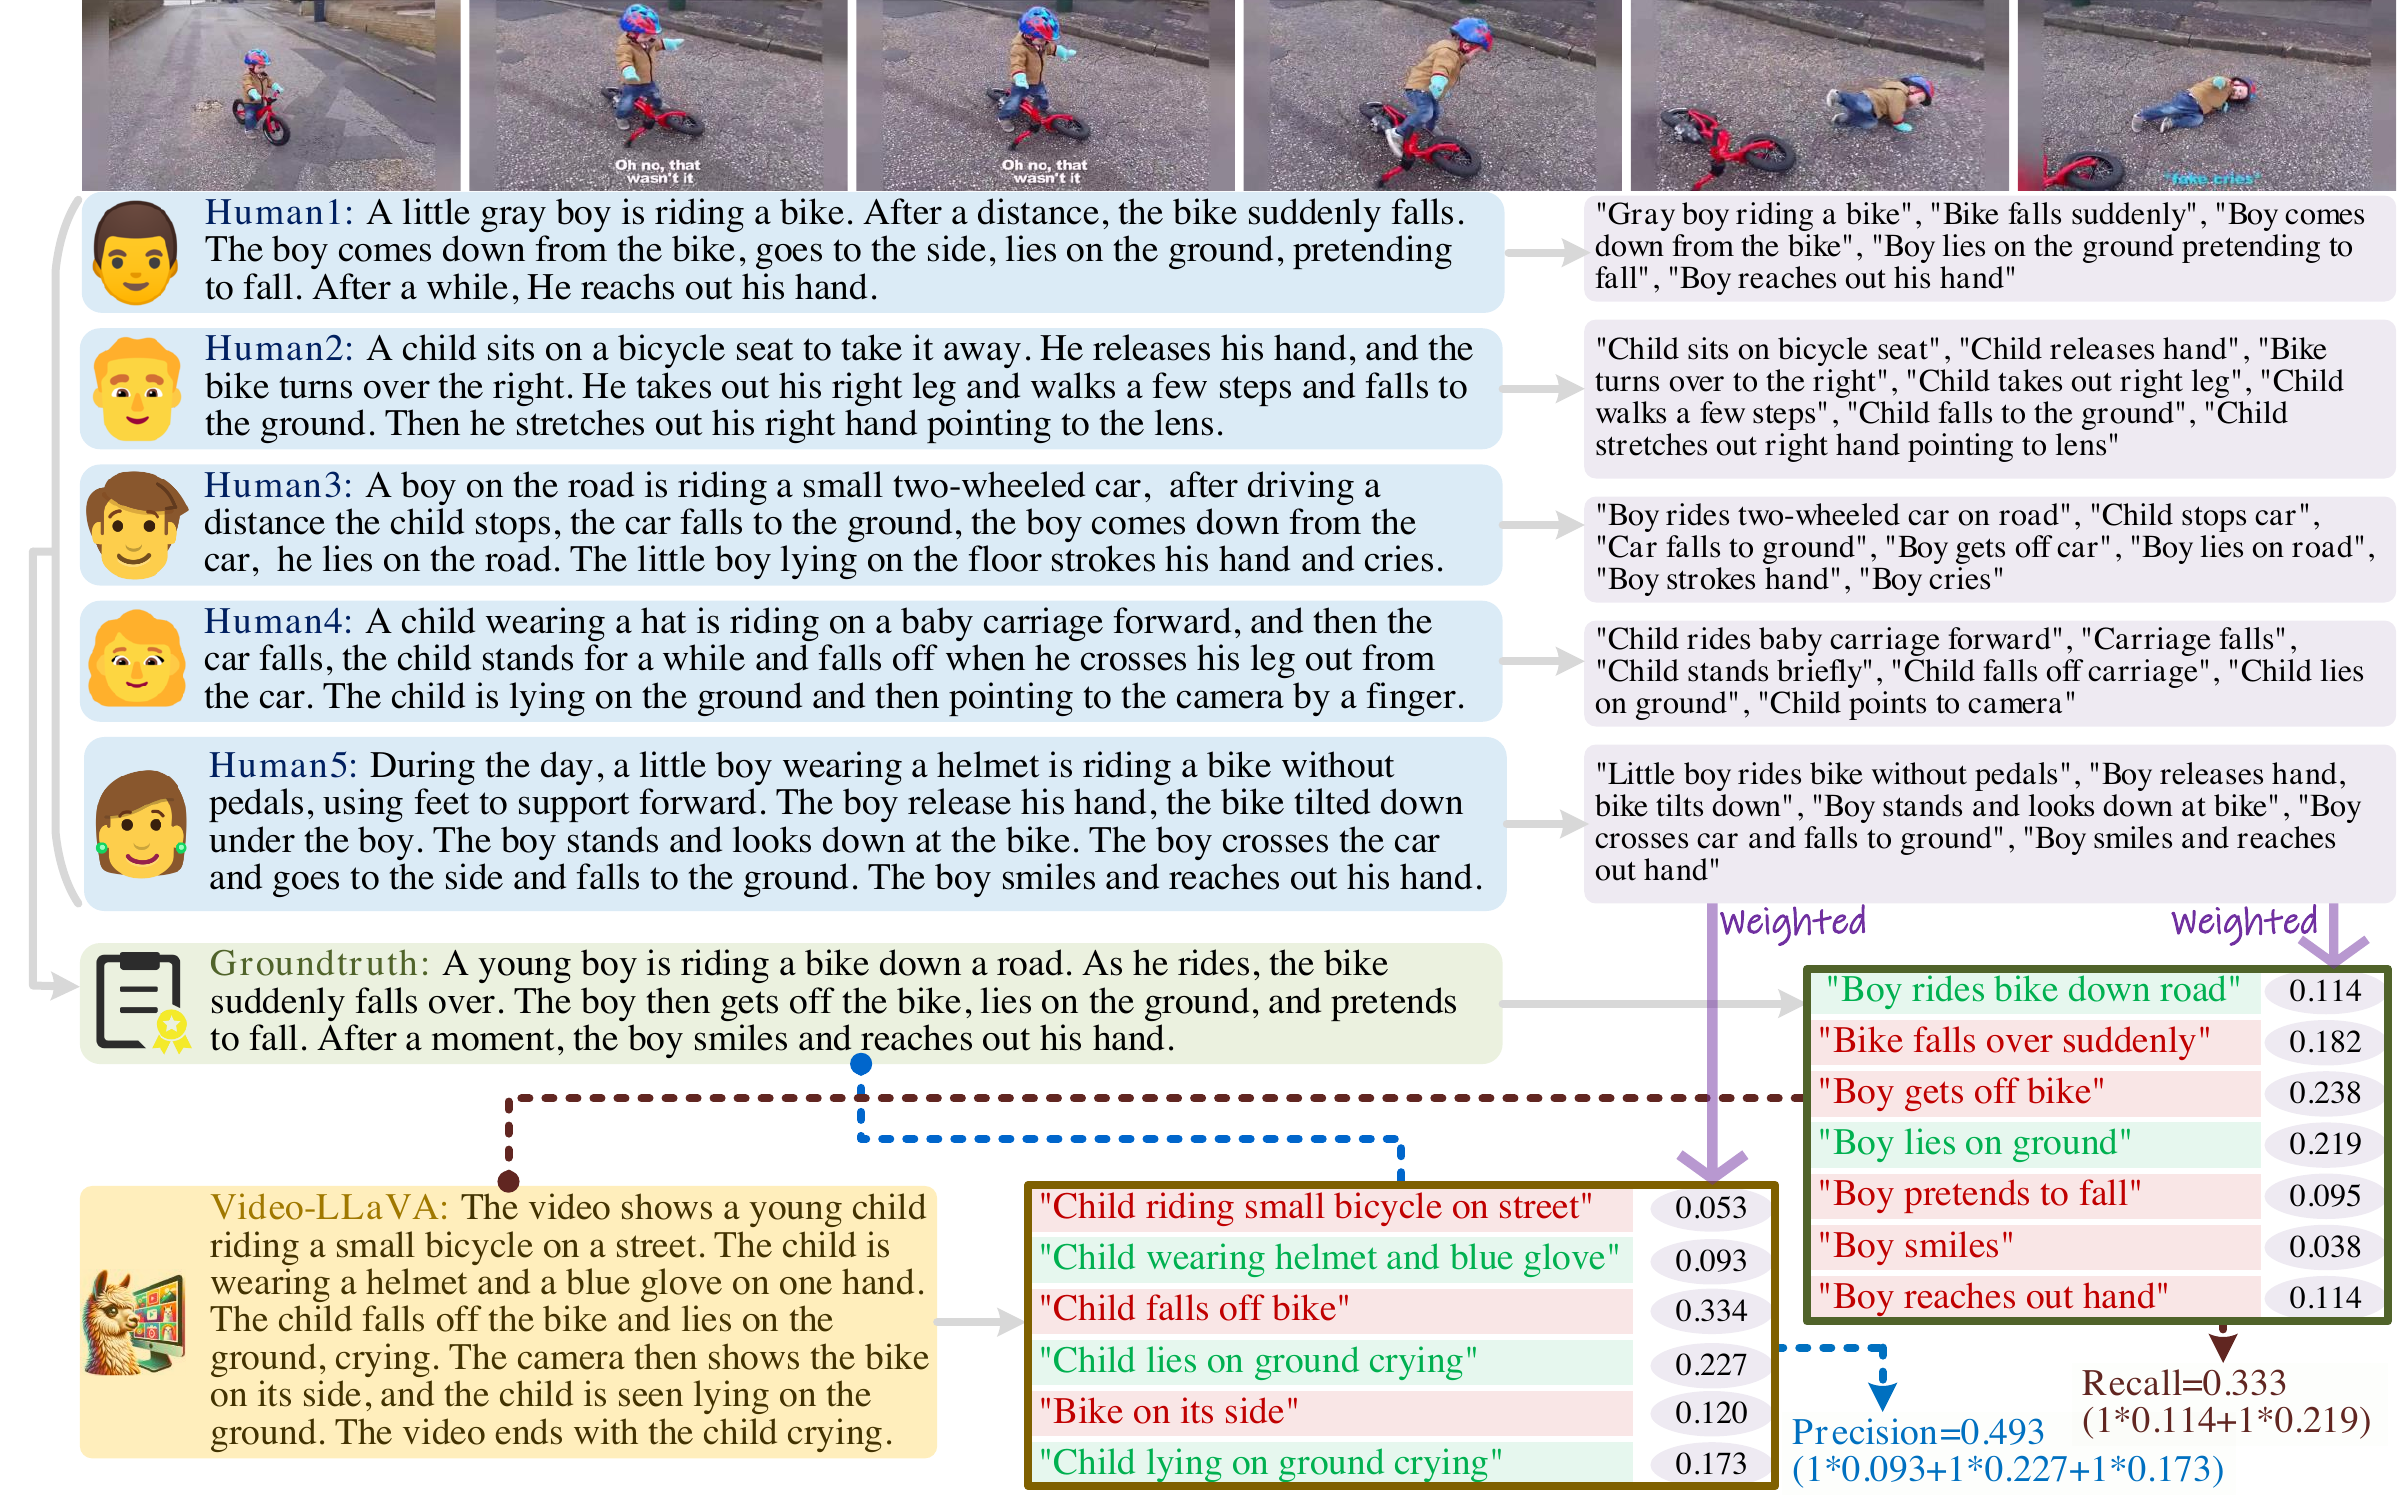
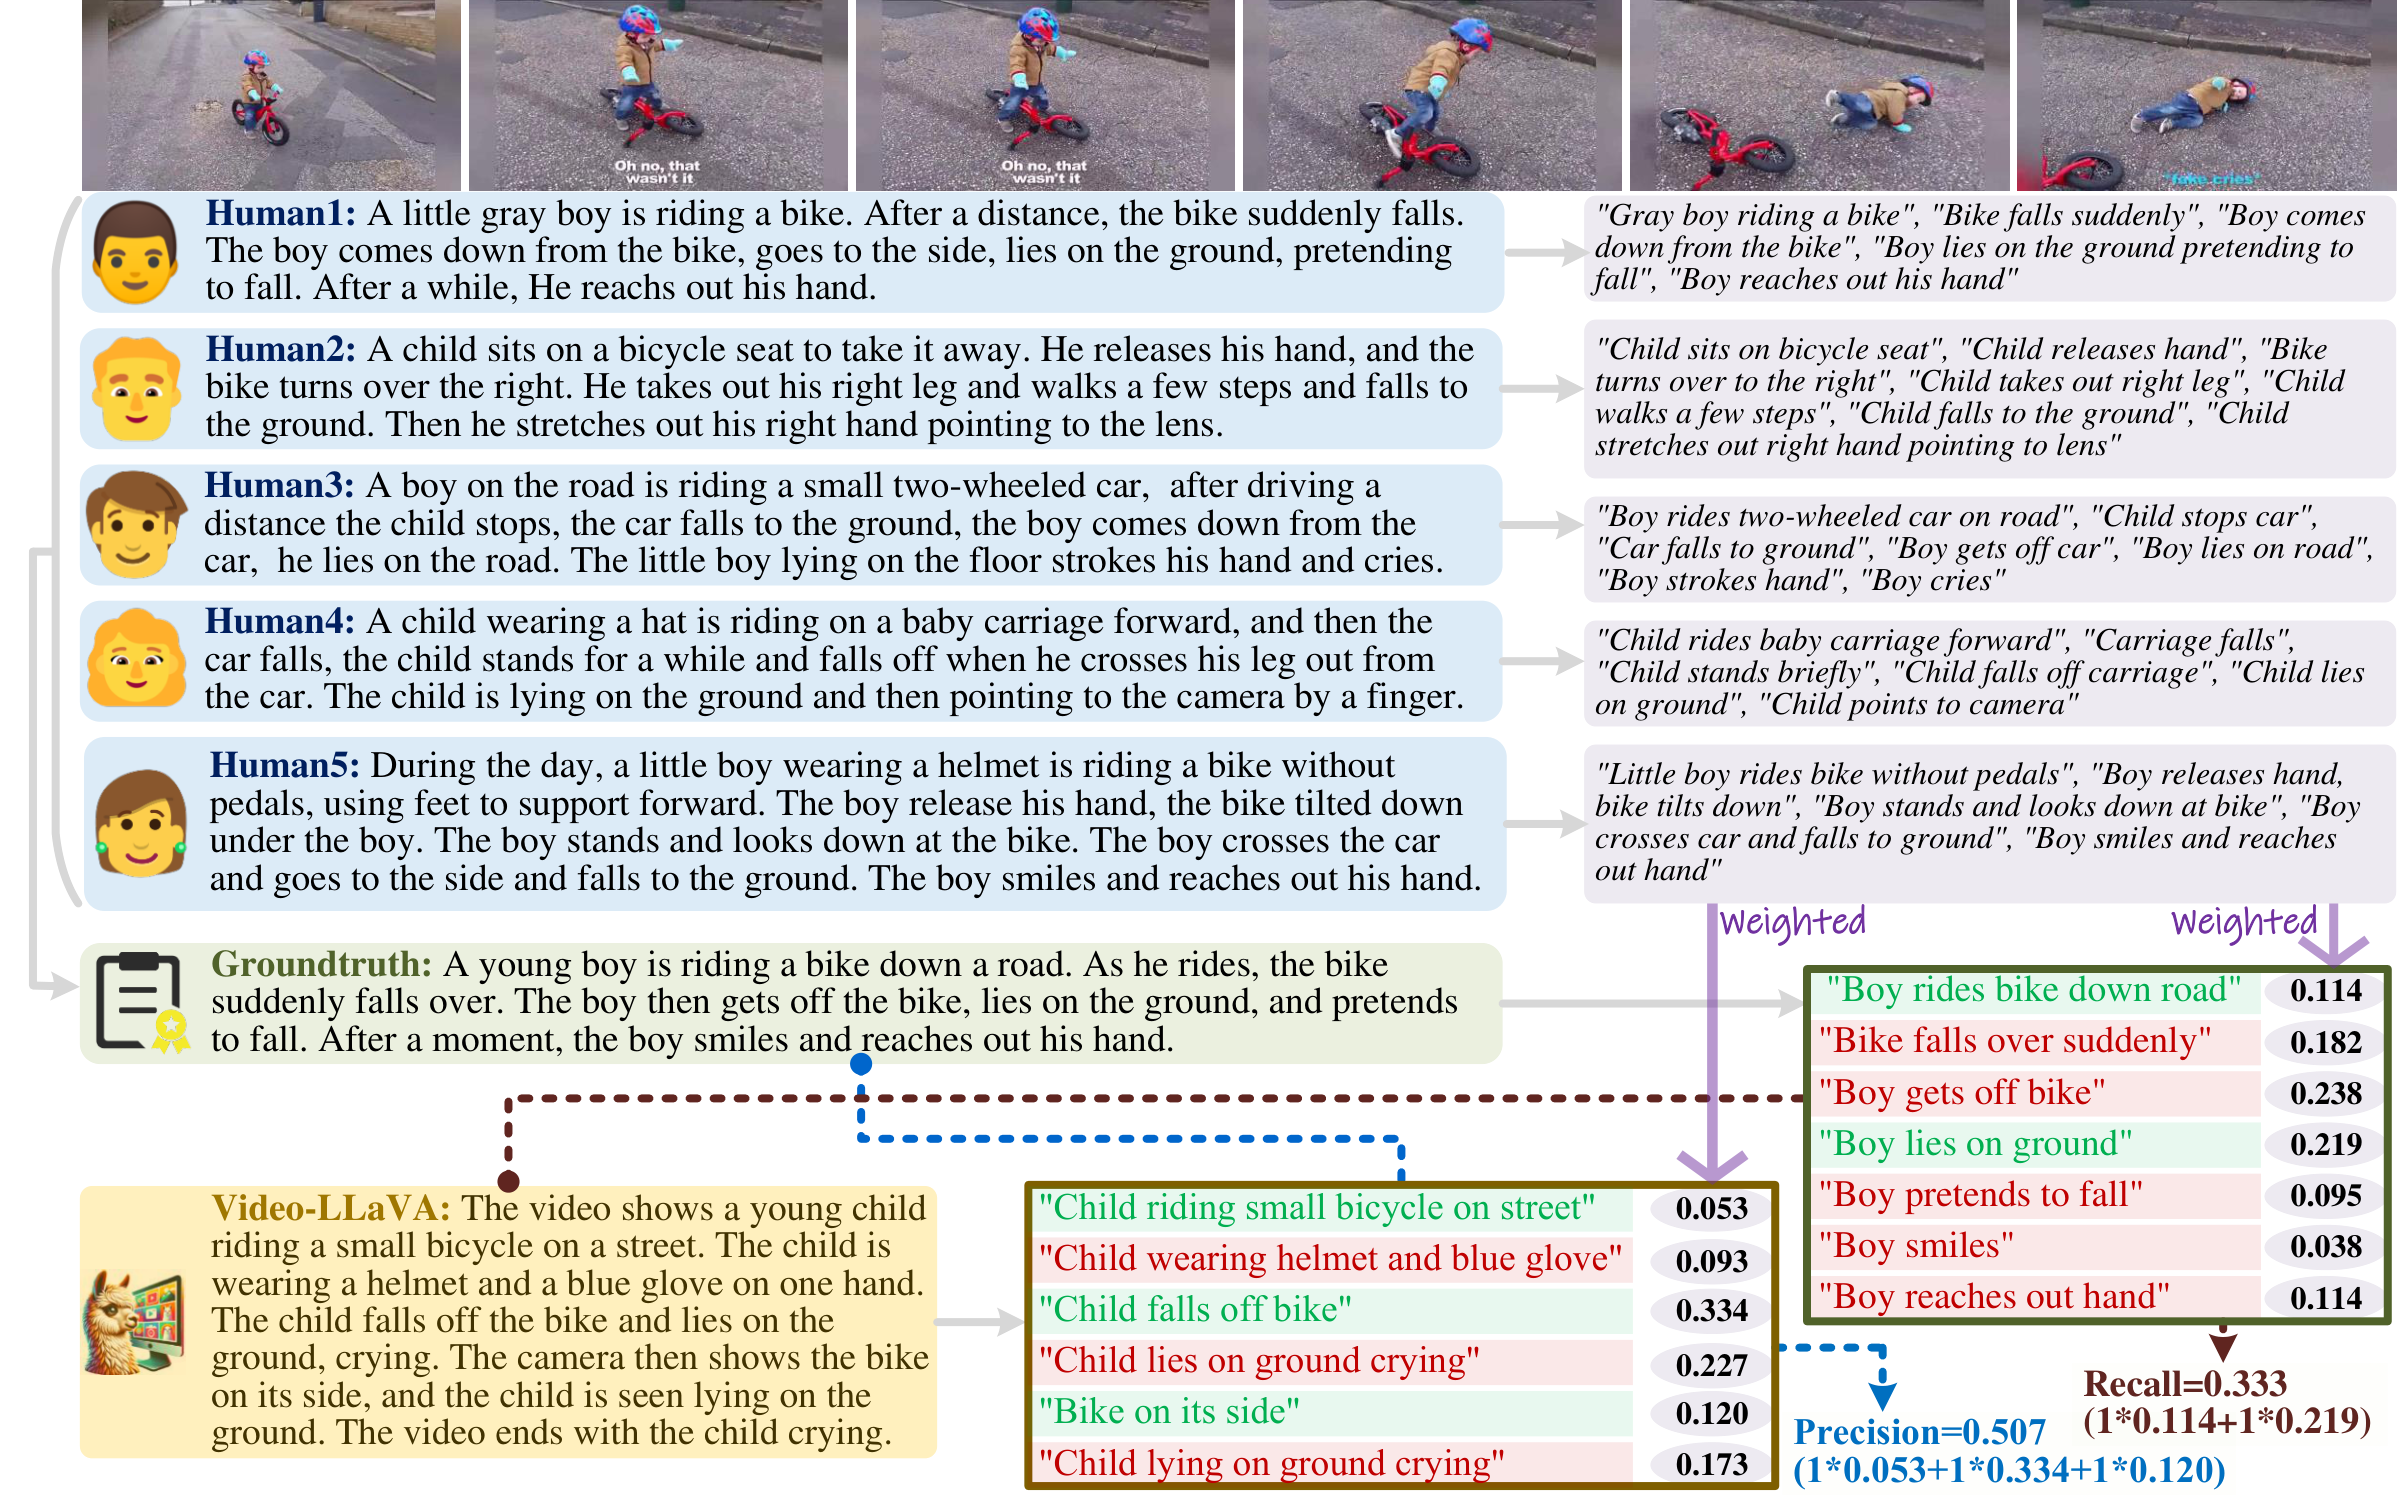
Replace event-weighting figure with corrected Fig. 7 precision example
The prediction-side example now marks the three UCG-supported events
(Precision 0.507), matching the paper's definition and current data.

diff --git a/index.html b/index.html
@@ -198,7 +198,7 @@
 </ul>
 <p>Precision measures support for predicted events; Recall measures coverage of reference events. FIOVA-DQ weights both by event importance and combines them through F1.</p>
 </div>
-<figure><a class="figure-link" href="static/images/current/event-weighting.png" aria-label="Enlarge: Worked FIOVA-DQ event weighting and matching example"><img src="static/images/current/event-weighting.png" alt="Worked FIOVA-DQ event weighting and matching example" loading="lazy" decoding="async" width="2400" height="1496"></a>
+<figure><a class="figure-link" href="static/images/current/event-weighting.png?v=20261113" aria-label="Enlarge: Worked FIOVA-DQ event weighting and matching example"><img src="static/images/current/event-weighting.png?v=20261113" alt="Worked FIOVA-DQ event weighting and matching example" loading="lazy" decoding="async" width="2400" height="1496"></a>
 <figcaption>Event extraction, human-guided weighting, and bidirectional support matching. <span class="zoom-hint">Select image to enlarge.</span>
 </figcaption>
 </figure>

diff --git a/README.md b/README.md
@@ -17,7 +17,7 @@ Open http://127.0.0.1:8766. No package installation or build step is required.
 - `index.html`: current page, semantic result tables, and video demos.
 - `static/css/index.css`: responsive layout and styles.
 - `static/js/index.js`: example selection and figure enlargement. All examples and figure links remain usable without JavaScript.
-- `static/images/current/`: figures exported from the September 2026 manuscript and retained source case panels.
+- `static/images/current/`: figures exported from the September 2026 manuscript and retained source case panels. `event-weighting.png` was re-exported on 2026-11-13 from the corrected Fig. 7 (`acc15-eg-r3.pdf`, Precision 0.507 from the three UCG-supported prediction events).
 
 The September 2026 update follows manuscript revision `94491f2`. Quantitative sources are main-paper Tables I, III, IV, V and Appendix Table A6. Update the displayed HTML tables against the manuscript when revising results. Downloadable result files are not provided. F1 values are averages of per-video F1, not calculated from aggregate Precision and Recall. The six baseline models cover all 3,002 videos; the twelve-model comparison covers the 169-video hard subset.
 
